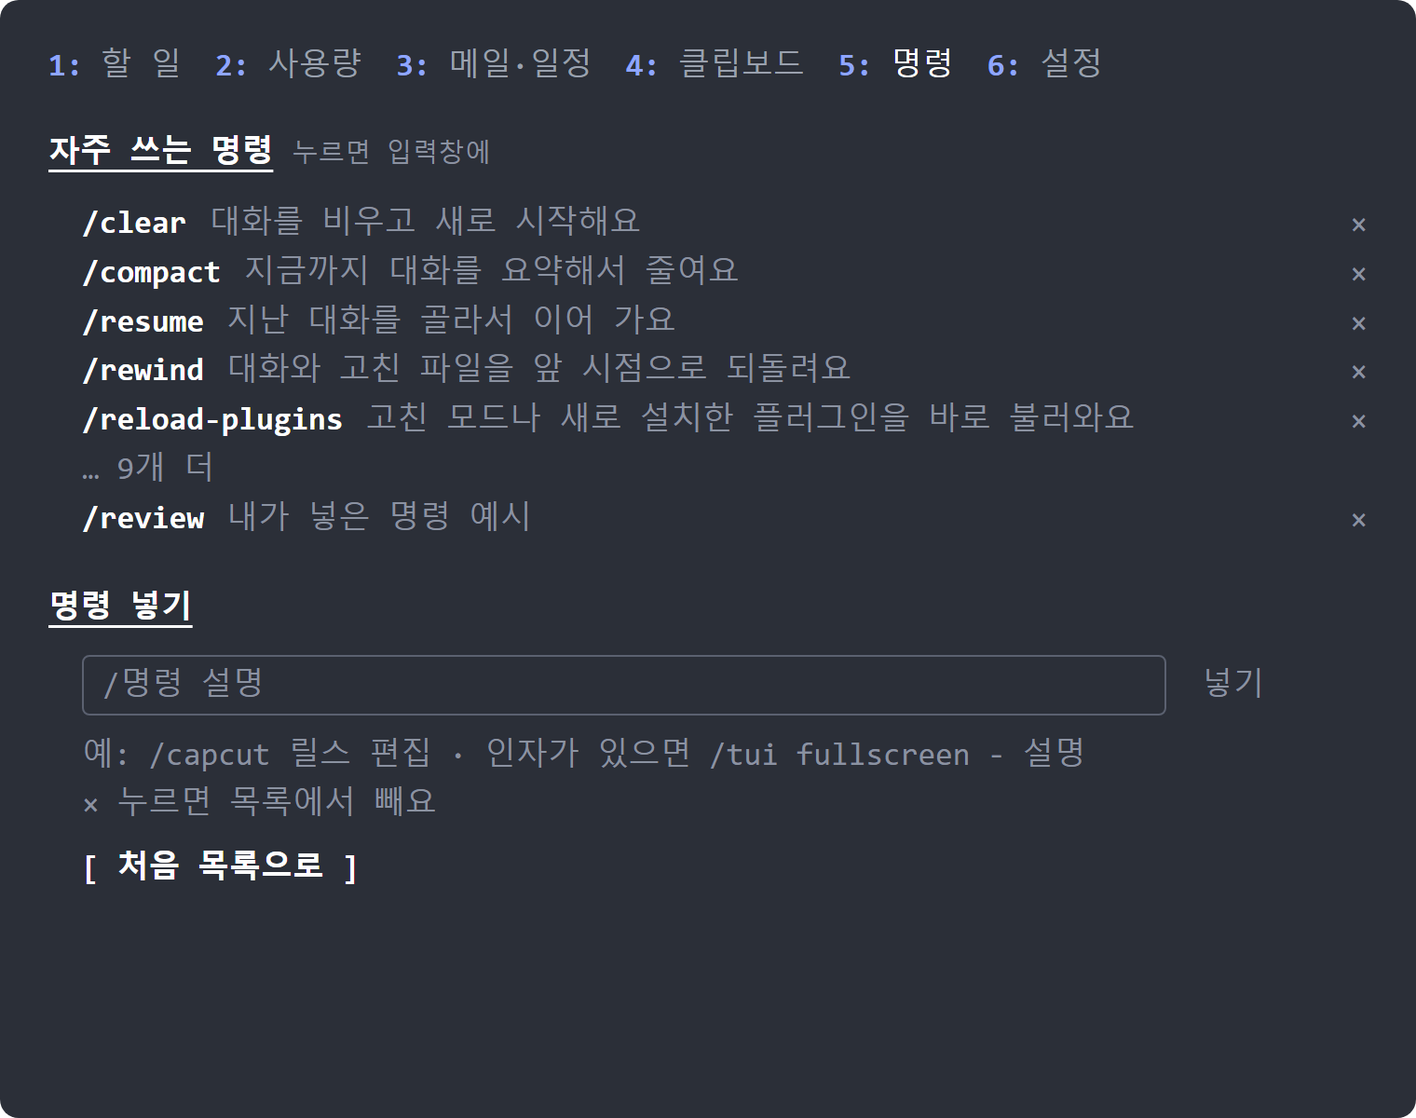
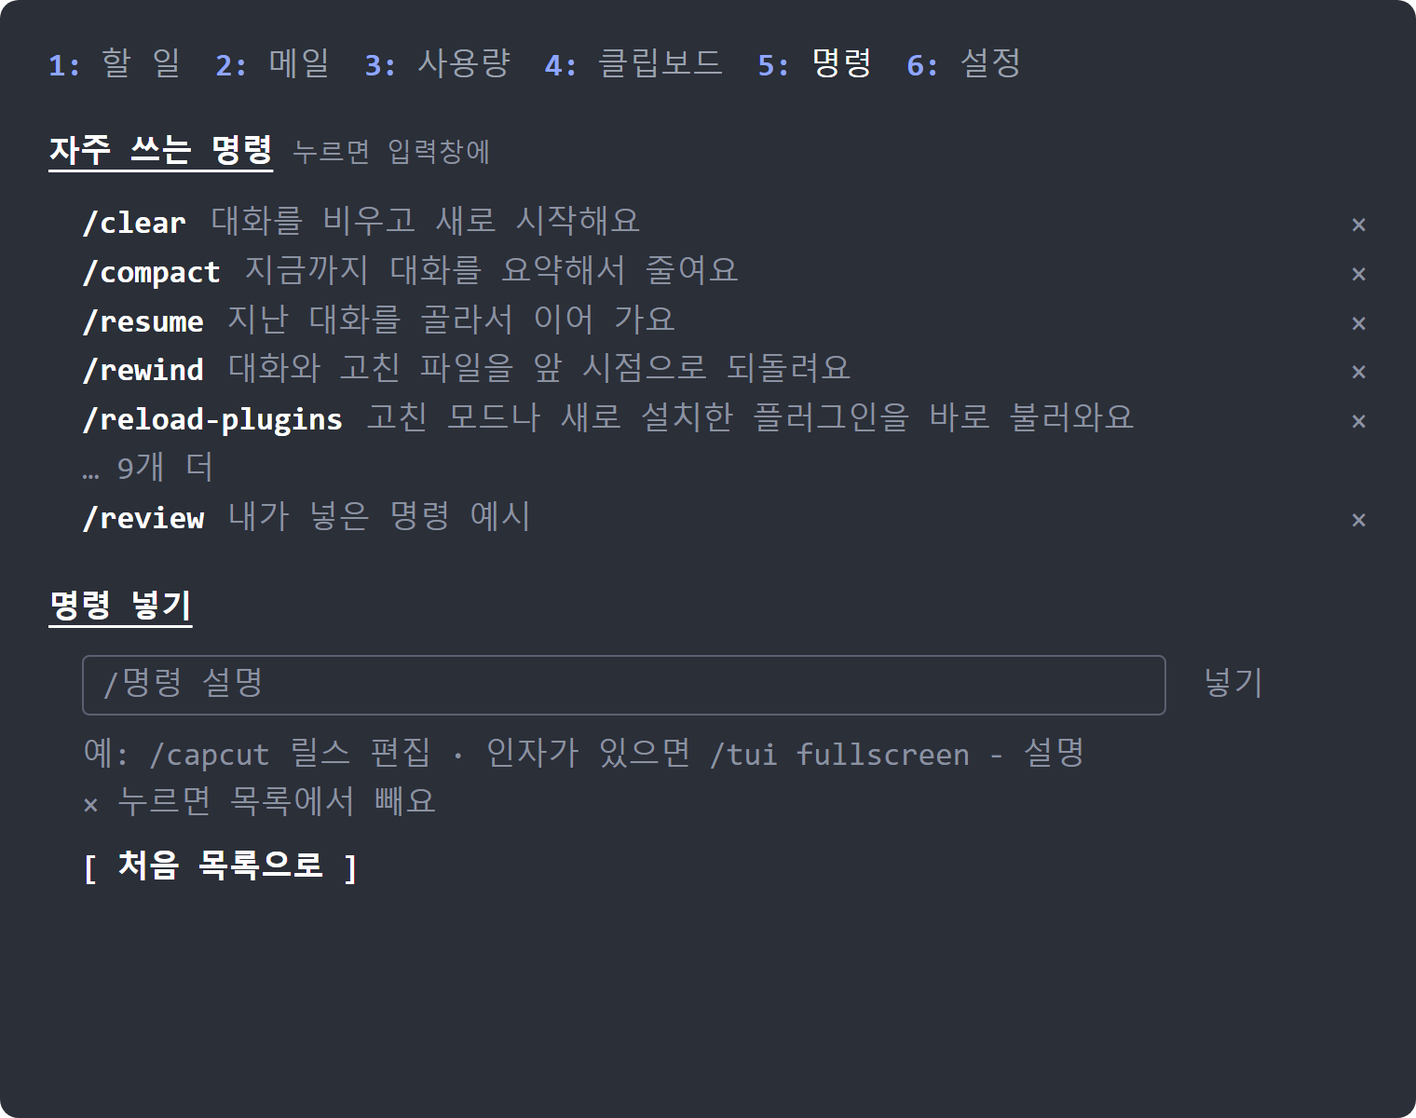
side-desk 0.5.0: 탭 순서를 할 일·메일·사용량·클립·명령·설정으로, 일정은 할 일 탭 맨 위로
- 오늘·내일 일정을 메일 탭에서 할 일 탭 맨 위로 옮김. 일정 옆 «새로고침», 할 일 탭을 보는 동안 5분마다 다시 읽음
- 메일 탭은 메일만, «새로고침»도 메일만 다시 읽음
- 탭 순서: 1 할 일 · 2 메일 · 3 사용량 · 4 클립보드 · 5 명령 · 6 설정
- README·그림을 새 순서에 맞춤

Changed region(s): [[0.1855, 0.0308, 0.773, 0.0925]]

diff --git a/plugins/side-desk/hooks/register.tsx b/plugins/side-desk/hooks/register.tsx
@@ -385,6 +385,7 @@ async function autoOpenDesk($: EngineInterface) {
     await refreshUsage($)
     updateStatus($)
     if (tab === 'clip') void watchClipboard($)
+    if (tab === 'pin') void calOnTab($)
     if (tab === 'mail') void mailOnTab($)
     if (tab === 'settings') settingsOnTab($)
     const opened = await $.ui.open({ id: PANE, title: '책상', columns: cfg.paneColumns, closeOnEscape: true })
@@ -682,24 +683,35 @@ async function loadCalendar($: EngineInterface, opts: { quiet?: boolean } = {}):
   }
 }
 
-// 탭을 열 때: 처음이거나, 실패했거나, 2분 넘게 지난 목록이면 다시 읽어요. 일정도 같은 기준이에요.
+const stale = (state: string, at: number, now: number) => state === 'idle' || state === 'failed' || (state === 'ok' && now - at > MAIL_STALE_MS)
+
+// 메일 탭을 열 때: 처음이거나, 실패했거나, 2분 넘게 지난 목록이면 다시 읽어요.
 async function mailOnTab($: EngineInterface) {
-  const now = await $.clock.now()
-  const stale = (state: string, at: number) => state === 'idle' || state === 'failed' || (state === 'ok' && now - at > MAIL_STALE_MS)
-  await Promise.all([stale(mailState, mailAt) ? loadMailList($) : undefined, stale(calState, calAt) ? loadCalendar($) : undefined])
+  if (stale(mailState, mailAt, await $.clock.now())) await loadMailList($)
+}
+
+// 할 일 탭을 열 때: 일정도 같은 기준으로 다시 읽어요.
+async function calOnTab($: EngineInterface) {
+  if (stale(calState, calAt, await $.clock.now())) await loadCalendar($)
 }
 
 // 1분마다 불려요. 옆 창이 보이고 «메일» 탭을 보고 있을 때만, 읽은 지 5분이 지났으면 목록을 다시 읽어요.
 //  · 실패한 상태(연결 안 됨·권한 없음)에서는 저절로 다시 부르지 않아요. «다시 시도»를 누르면 돼요.
 async function mailTick($: EngineInterface) {
-  if (tab !== 'mail') return
-  const now = await $.clock.now()
-  const mailDue = mailState === 'ok' && now - mailAt >= MAIL_AUTO_MS
-  const calDue = calState === 'ok' && now - calAt >= MAIL_AUTO_MS
-  if (!mailDue && !calDue) return
+  if (tab !== 'mail' || mailState !== 'ok') return
+  if ((await $.clock.now()) - mailAt < MAIL_AUTO_MS) return
   const panes = await $.ui.panes().catch(() => [])
   if (!panes.some(p => p.id === PANE && p.isShown && p.isPlaced)) return
-  await Promise.all([mailDue ? loadMailList($, { quiet: true }) : undefined, calDue ? loadCalendar($, { quiet: true }) : undefined])
+  await loadMailList($, { quiet: true })
+}
+
+// 1분마다 불려요. 옆 창이 보이고 «할 일» 탭을 보고 있을 때만, 읽은 지 5분이 지났으면 일정을 다시 읽어요.
+async function calTick($: EngineInterface) {
+  if (tab !== 'pin' || calState !== 'ok') return
+  if ((await $.clock.now()) - calAt < MAIL_AUTO_MS) return
+  const panes = await $.ui.panes().catch(() => [])
+  if (!panes.some(p => p.id === PANE && p.isShown && p.isPlaced)) return
+  await loadCalendar($, { quiet: true })
 }
 
 // 줄을 누르면 그 메일(스레드)의 본문을 불러와요. Gmail 의 «읽음» 표시는 바꾸지 않아요.
@@ -1069,7 +1081,7 @@ function para(els: Els, inner: number, text: string, opts: { indent?: number; di
   )
 }
 
-type PinHandlers = { explain: (path: string) => void }
+type PinHandlers = { explain: (path: string) => void; refreshCal: () => void }
 
 const CHANGES_SHOWN = 6
 
@@ -1101,13 +1113,14 @@ function changesBlock(els: Els, inner: number, act: PinHandlers) {
   )
 }
 
-function pinTab(els: Els, inner: number, act: PinHandlers) {
+function pinTab(els: Els, inner: number, now: number, act: PinHandlers) {
   const { Box, Text } = els
   const open = board.todos.filter(t => !t.isDone)
   const doneCount = board.todos.length - open.length
   const empty = (text: string) => <Text dimColor>{'  ' + text}</Text>
   return (
     <Box flexDirection="column" width={inner + 2} padding={1}>
+      {calendarBlock(els, inner, now, act.refreshCal)}
       {heading(els, '내가 정해야 하는 것', board.decisions.length ? String(board.decisions.length) : '')}
       {board.decisions.length === 0 && empty('없음')}
       {board.decisions.flatMap(d => d.text.split(' / ').map(part => line(els, inner, '?', part)))}
@@ -1217,9 +1230,9 @@ function usageTab(els: Els, inner: number, act: HandoffHandlers) {
   )
 }
 
-// 메일 탭 맨 위의 오늘·내일 일정. 읽기만 해요. 캘린더가 안 붙어 있으면 한 줄로 알려 주고, 메일은 그대로 보여요.
-function calendarBlock(els: Els, inner: number, now: number) {
-  const { Box, Text } = els
+// 할 일 탭 맨 위의 오늘·내일 일정. 읽기만 해요. 캘린더가 안 붙어 있으면 한 줄로 알려 줘요.
+function calendarBlock(els: Els, inner: number, now: number, refresh: () => void) {
+  const { Box, Text, Button } = els
   const today = calEvents.filter(ev => ev.day === 'today')
   const tomorrow = calEvents.filter(ev => ev.day === 'tomorrow')
   const row = (ev: CalEvent) => {
@@ -1240,7 +1253,10 @@ function calendarBlock(els: Els, inner: number, now: number) {
   }
   return (
     <Box flexDirection="column" paddingBottom={1}>
-      {heading(els, '일정', '오늘·내일')}
+      <Box flexDirection="row" justifyContent="space-between" width={inner}>
+        {heading(els, '일정', '오늘·내일')}
+        <Button key="cal-refresh" label="새로고침" hotkey="r" plain dimColor onPress={refresh} />
+      </Box>
       {calState === 'failed' &&
         para(els, inner, /permission|권한|haven't granted/i.test(calProblem ?? '') ? '캘린더를 읽는 권한을 아직 안 받았어요. 설정 탭 «점검»에서 고치는 법을 보세요.' : '캘린더를 못 읽었어요. 설정 탭 «점검»에서 연결을 확인하세요.', { dim: true })}
       {(calState === 'idle' || (calState === 'loading' && !calLoaded)) && <Text dimColor>{'  불러오는 중…'}</Text>}
@@ -1291,12 +1307,10 @@ function mailTab(els: Els, inner: number, now: number, act: MailHandlers) {
   }
 
   const head = heading(els, '메일')
-  const cal = calendarBlock(els, inner, now)
   // 연결은 돼 있는데 도구 권한을 안 받은 경우(권한 묻기를 건너뛰지 않는 세션). 이때는 다시 연결해도 소용없어요.
   if (mailState === 'failed' && /permission|권한/i.test(mailProblem ?? '')) {
     return (
       <Box flexDirection="column" width={inner + 2} padding={1}>
-        {cal}
         {head}
         {para(els, inner, 'Gmail은 연결돼 있는데, 메일을 읽는 권한을 아직 안 받았어요.', { color: 'warning' })}
         {para(els, inner, '/permissions 에서 mcp__claude_ai_Gmail__search_threads 와 mcp__claude_ai_Gmail__get_thread 를 허용한 뒤 «다시 시도»를 누르세요.', { dim: true })}
@@ -1309,7 +1323,6 @@ function mailTab(els: Els, inner: number, now: number, act: MailHandlers) {
   if (mailState === 'failed') {
     return (
       <Box flexDirection="column" width={inner + 2} padding={1}>
-        {cal}
         {head}
         {para(els, inner, 'Gmail을 불러오지 못했어요. 연결이 안 돼 있거나 로그인이 풀렸을 수 있어요.', { color: 'warning' })}
         {mailProblem !== undefined && para(els, inner, mailProblem, { dim: true })}
@@ -1327,7 +1340,6 @@ function mailTab(els: Els, inner: number, now: number, act: MailHandlers) {
   const timeWidth = 5
   return (
     <Box flexDirection="column" width={inner + 2} padding={1}>
-      {cal}
       <Box flexDirection="row" justifyContent="space-between" width={inner}>
         {head}
         <Button key="mail-refresh" label="새로고침" hotkey="r" plain dimColor onPress={act.refresh} />
@@ -1511,8 +1523,8 @@ function clipTab(els: Els, inner: number, act: ClipHandlers) {
 // 탭 이름은 넓을 때·보통·좁을 때 세 벌. 탭 줄이 한 줄에 들어가는 가장 긴 벌을 골라요.
 const TABS: { name: TabName; hotkey: string; labels: [string, string, string] }[] = [
   { name: 'pin', hotkey: '1', labels: ['할 일', '할 일', '할일'] },
-  { name: 'usage', hotkey: '2', labels: ['사용량', '사용량', '한도'] },
-  { name: 'mail', hotkey: '3', labels: ['메일·일정', '메일', '메일'] },
+  { name: 'mail', hotkey: '2', labels: ['메일', '메일', '메일'] },
+  { name: 'usage', hotkey: '3', labels: ['사용량', '사용량', '한도'] },
   { name: 'clip', hotkey: '4', labels: ['클립보드', '클립', '클립'] },
   { name: 'cmds', hotkey: '5', labels: ['명령', '명령', '명령'] },
   { name: 'settings', hotkey: '6', labels: ['설정', '설정', '설정'] },
@@ -1586,9 +1598,10 @@ export const register: Register = (on, options) => {
     $.clock.every(60_000, () => {
       void refreshUsage($).then(() => updateStatus($))
       void mailTick($)
+      void calTick($)
     })
     // 명령어는 이름이 겹치면 던지니까 맨 뒤에서, 하나씩 감싸서 등록해요.
-    await registerCommand($, { name: 'desk', description: '책상 열기: 할 일·사용량(이어가기 포함)·메일·일정·클립·명령·설정. text 는 글로 보기, check 는 처음 설정 점검', argumentHint: '[text|check]', immediate: true })
+    await registerCommand($, { name: 'desk', description: '책상 열기: 할 일(일정 포함)·메일·사용량(이어가기 포함)·클립·명령·설정. text 는 글로 보기, check 는 처음 설정 점검', argumentHint: '[text|check]', immediate: true })
     await registerCommand($, { name: 'coach', description: '프롬프트 가이드 켜기·끄기', argumentHint: '[on|off]' })
     await registerCommand($, { name: 'handoff', description: '대화를 새 대화로 넘겨요', argumentHint: '[now|ask|auto|off]', immediate: true })
     await registerCommand($, { name: 'clip', description: '클립보드의 글을 입력창에 붙여요. 이미지는 파일로 저장하고 경로를 붙여요', immediate: true })
@@ -1606,6 +1619,7 @@ export const register: Register = (on, options) => {
     updateStatus($)
     // 창을 다시 열었는데 «클립» 탭이 선택돼 있으면 바로 읽어요. «메일» 탭이면 받은편지함 제목을 읽어요.
     if (tab === 'clip') void watchClipboard($)
+    if (tab === 'pin') void calOnTab($)
     if (tab === 'mail') void mailOnTab($)
     if (tab === 'settings') settingsOnTab($)
     await $.ui.open({ id: PANE, title: '책상', columns: cfg.paneColumns, focus: true, closeOnEscape: true })
@@ -1756,6 +1770,8 @@ export const register: Register = (on, options) => {
     // 옆이 아니라 입력창 위에 열렸다면(클래식 화면) 마우스가 안 눌려요. 클릭은 풀스크린 화면에서만 와요.
     const inline = e.props.placement === 'inline'
     lastPlacement = e.props.placement
+    // 책상이 /desk 없이 그려질 때(플러그인을 다시 읽은 뒤 등)도 일정을 한 번은 읽어요. 읽기 시작하면 상태가 바로 바뀌어서 한 번만 불러요.
+    if (tab === 'pin' && calState === 'idle') void loadCalendar($)
     const unfocused = e.props.isFocused === false
     // 풀스크린이 아닌 것이 확실할 때만 닫아요. 시작 직후 너비를 못 쟀거나(모름) 풀스크린인데 잠깐 좁은 때는 그대로 둬요.
     if (inline && e.viewport?.isFullscreen === false && !openedByUser && !inlineClosed) {
@@ -1784,6 +1800,7 @@ export const register: Register = (on, options) => {
           redraw()
           // 클립 탭은 열 때 감시를 시작해요. 메일 탭은 열 때 받은편지함 제목을 읽어요.
           if (name === 'clip') void watchClipboard($)
+          if (name === 'pin') void calOnTab($)
           if (name === 'mail') void mailOnTab($)
           if (name === 'settings') settingsOnTab($)
         }}
@@ -1791,12 +1808,13 @@ export const register: Register = (on, options) => {
     )
     const body =
       tab === 'pin'
-        ? pinTab(els, inner, {
+        ? pinTab(els, inner, now, {
             explain: (path: string) => {
               void $.prompt.fill({ text: changePrompt(path) }).then(r => {
                 $.ui.toast(r.isFilled ? '입력창에 넣었어요. Esc로 입력창에 돌아가 엔터를 누르면 물어봐요.' : '입력창에 못 넣었어요.', { timeoutMs: 6000 })
               })
             },
+            refreshCal: () => void loadCalendar($),
           })
         : tab === 'usage'
           ? usageTab(els, inner, {
@@ -1814,10 +1832,7 @@ export const register: Register = (on, options) => {
                   mailView = undefined
                   redraw()
                 },
-                refresh: () => {
-                  void loadMailList($)
-                  void loadCalendar($)
-                },
+                refresh: () => void loadMailList($),
                 connect: () => connectGmail($),
                 // 입력창을 이 글로 채우기만 해요. 보내기는 엔터로 해요.
                 ask: m => {

diff --git a/plugins/side-desk/tests/extras-pane.test.tsx b/plugins/side-desk/tests/extras-pane.test.tsx
@@ -170,6 +170,10 @@ test('명령 탭: 5번 탭이고, 누르면 입력창에 넣기만 하고 실행
   const { clock, filled } = stub(on)
   await start($, clock)
   const ui = await $.ui.mount({ ...PANE, surface: 'terminal' })
+  // 할 일 · 메일 · 한도 · 클립 · 명령 · 설정 (칸반은 ft-desk 에만 있어요)
+  expect((await ui.find({ key: 'tab-mail' }))?.props.hotkey).toBe('2')
+  expect((await ui.find({ key: 'tab-usage' }))?.props.hotkey).toBe('3')
+  expect(await ui.find({ key: 'tab-kanban' })).toBeUndefined()
   expect((await ui.find({ key: 'tab-cmds' }))?.props.hotkey).toBe('5')
   expect((await ui.find({ key: 'tab-settings' }))?.props.hotkey).toBe('6')
   await ui.press({ key: 'tab-cmds' })

diff --git a/README.md b/README.md
@@ -37,17 +37,17 @@ claude plugin install side-desk@side-desk
 
 > 아래 그림은 설명용 예시 화면이에요. 숫자와 할 일은 예시고, 글자 배치는 실제 화면과 같아요.
 
-**할 일** — Claude가 쌓은 할 일, 내 답을 기다리는 질문, 이번 대화에서 고친 파일
+**할 일** — 오늘·내일 일정, Claude가 쌓은 할 일, 내 답을 기다리는 질문, 이번 대화에서 고친 파일 (일정은 예시예요)
 
 ![할 일 탭](docs/desk-todo.png)
+
+**메일** — 받은편지함 제목만 보여 주고, 누르면 본문을 읽어요 (메일 제목은 예시예요)
+
+![메일 탭](docs/desk-mail.png)
 
 **사용량** — 사용 한도와 대화 길이, 그리고 새 대화로 이어가기
 
 ![사용량 탭](docs/desk-usage.png)
-
-**메일·일정** — 오늘·내일 일정, 그 아래 받은편지함 제목. 누르면 본문을 읽어요 (일정과 메일 제목은 예시예요)
-
-![메일 탭](docs/desk-mail.png)
 
 **명령** — 자주 쓰는 명령. 누르면 입력창에 들어가요. `×`로 빼고, 아래 칸에 써서 넣어요
 
@@ -61,14 +61,14 @@ claude plugin install side-desk@side-desk
 
 | 탭 | 하는 일 |
 |---|---|
-| **1 할 일** | Claude가 쌓아 둔 **이번 대화 할 일**, 그리고 **내가 정해야 하는 것**을 고정해 둬요. 대화가 길어져도 안 밀려나요. 아래에는 **이번 대화에서 Claude가 고친 파일**이 최근 것부터 보여요. `>`를 누르면 «이 파일 왜 바꿨는지 설명해 줘»를 입력창에 채워요. |
-| **2 사용량** | 5시간·7일 **사용 한도**, 초기화까지 남은 시간, **대화 길이**, 이 대화의 비용. 한도가 80%를 넘으면 알려 줘요. 대화가 길어지면 «이어서 할 일»을 메모로 쓰고 **새 대화로 넘길지 물어봐요.** 새 대화는 그 메모를 읽고 바로 이어서 해요. |
-| **3 메일·일정** | 맨 위에 **구글 캘린더의 오늘·내일 일정**을 보여 줘요. 그 아래는 Claude Code에 연결된 **Gmail** 받은편지함의 최근 20개를 **제목만** 보여 줘요. 줄을 누르면 그때 본문을 불러와요. `>`를 누르면 «이 메일을 읽고 내가 할 일을 찾아 줘»라는 글을 입력창에 채워요(보내기는 엔터로 해요). `↗`는 브라우저의 Gmail로 열어요. **둘 다 읽기만 해요.** |
+| **1 할 일** | 맨 위에 **구글 캘린더의 오늘·내일 일정**을 보여 줘요(읽기만 해요). 그 아래 Claude가 쌓아 둔 **이번 대화 할 일**, 그리고 **내가 정해야 하는 것**을 고정해 둬요. 대화가 길어져도 안 밀려나요. 아래에는 **이번 대화에서 Claude가 고친 파일**이 최근 것부터 보여요. `>`를 누르면 «이 파일 왜 바꿨는지 설명해 줘»를 입력창에 채워요. |
+| **2 메일** | Claude Code에 연결된 **Gmail** 받은편지함의 최근 20개를 **제목만** 보여 줘요. 줄을 누르면 그때 본문을 불러와요. `>`를 누르면 «이 메일을 읽고 내가 할 일을 찾아 줘»라는 글을 입력창에 채워요(보내기는 엔터로 해요). `↗`는 브라우저의 Gmail로 열어요. **읽기만 해요.** |
+| **3 사용량** | 5시간·7일 **사용 한도**, 초기화까지 남은 시간, **대화 길이**, 이 대화의 비용. 한도가 80%를 넘으면 알려 줘요. 대화가 길어지면 «이어서 할 일»을 메모로 쓰고 **새 대화로 넘길지 물어봐요.** 새 대화는 그 메모를 읽고 바로 이어서 해요. |
 | **4 클립보드** | 최근에 복사한 글·이미지 목록(윈도우 Win+V 기록). 줄을 누르면 입력창에 들어가요. |
 | **5 명령** | `/clear`·`/compact`·`/resume`·`/mcp` 같은 **자주 쓰는 명령**을 쉬운 말로 풀어 뒀어요. 누르면 입력창에 넣기만 하고, 실행은 엔터로 해요. 줄 끝 `×`로 빼고, 아래 칸에 `/명령 설명`을 쓰고 엔터를 누르면 넣어요(예: `/capcut 릴스 편집`, 인자가 있으면 `/tui fullscreen - 설명`). «처음 목록으로»를 누르면 되돌려요. |
 | **6 설정** | 보내기 전 확인 · 질문·승인 알림 · 작업 끝 알림 · 프롬프트 가이드를 켜고 꺼요. **처음 설정 점검**(✓/✗와 고치는 법)과 «알림 시험»이 있어요. |
 
-옆 창이 좁으면 탭 이름이 «할일 · 한도 · 메일 · 클립 · 명령 · 설정»으로 줄고(넓으면 «메일·일정»), 그래도 넘치면 두 줄로 나뉘어요. 긴 제목은 `…`로 자르고, 여러 줄로 넘어가는 설명은 같은 들여쓰기로 이어져요.
+옆 창이 좁으면 탭 이름이 «할일 · 메일 · 한도 · 클립 · 명령 · 설정»으로 줄고, 그래도 넘치면 두 줄로 나뉘어요. 긴 제목은 `…`로 자르고, 여러 줄로 넘어가는 설명은 같은 들여쓰기로 이어져요.
 
 입력창에서 바로 쓰는 명령도 있어요.
 
@@ -87,7 +87,7 @@ claude plugin install side-desk@side-desk
 - **파일을 써요.** 대화를 이어갈 때 쓰는 메모와, 클립보드 이미지를 저장한 파일이에요. 모두 `내 폴더/.claude/state/side-desk/` 아래에 있고, 이미지는 하루 뒤 지워져요.
 - **고친 파일 목록을 남겨요.** Claude가 `Edit`·`Write`·`NotebookEdit`로 파일을 고칠 때마다 그 경로만 적어 둬요(파일 내용은 안 적어요). Claude Code가 모드에 주는 저장 공간에 대화마다 따로 두고, 최근 30개 대화만 남겨요. 셸 명령으로 바꾼 파일은 안 잡혀요.
 - **서버가 없고, 내 글을 밖으로 보내지 않아요.** 이 모드가 외부 주소로 직접 요청하는 일은 없어요.
-- **메일 탭은 Gmail·구글 캘린더 커넥터로 읽기만 해요.** Claude Code에 이미 연결해 둔 «claude.ai Gmail»과 «claude.ai Google Calendar» 커넥터를 거쳐요. 메일 탭을 열 때, «새로고침»을 누를 때, 메일 탭을 보고 있는 동안 5분마다 받은편지함 제목과 오늘·내일 일정을 읽고, 줄을 누를 때만 메일 본문을 읽어요. 창이 닫혀 있거나 다른 탭을 보고 있으면 읽지 않아요. 읽음 표시·라벨·답장·삭제·일정 변경은 하지 않고, 읽은 메일과 일정을 따로 저장하지도 않아요.
+- **메일과 일정은 Gmail·구글 캘린더 커넥터로 읽기만 해요.** Claude Code에 이미 연결해 둔 «claude.ai Gmail»과 «claude.ai Google Calendar» 커넥터를 거쳐요. 받은편지함 제목은 메일 탭을 열 때·«새로고침»을 누를 때·메일 탭을 보는 동안 5분마다, 오늘·내일 일정은 할 일 탭을 열 때·일정 «새로고침»을 누를 때·할 일 탭을 보는 동안 5분마다 읽어요. 메일 본문은 줄을 누를 때만 읽어요. 창이 닫혀 있거나 다른 탭을 보고 있으면 읽지 않아요. 읽음 표시·라벨·답장·삭제·일정 변경은 하지 않고, 읽은 메일과 일정을 따로 저장하지도 않아요.
 - **설정 탭의 점검은 커넥터를 한 번씩 불러 봐요.** 설정 탭을 처음 열 때와 «다시 점검»을 누를 때 Gmail과 캘린더에 가장 작은 요청을 하나씩 보내서 연결됐는지만 봐요.
 - **알림은 스위치가 둘이에요.** «질문·승인 알림»(기본 켜짐)은 Claude가 질문할 때, «이 도구를 써도 될까요?» 승인 창이나 보내기 전 확인이 떴을 때 알려요. «작업 끝 알림»(기본 꺼짐)은 오래 걸린 일이 끝났을 때 알려요. 윈도우는 PowerShell로 윈도우 알림을, 맥·리눅스는 Claude Code가 터미널로 보내는 알림을 써요.
 - **«보내기 전 확인»은 이래요.** Claude가 메일 보내기, 광고 변경, 일정 초대, 드라이브 공유 같은 일을 하려 하면 받는 사람·제목·본문을 보여 주고 «보낼까요?»를 물어요. 읽기·검색·초안 저장은 묻지 않아요.
@@ -109,7 +109,7 @@ claude plugin install side-desk@side-desk
 
 **클립보드 탭이 «읽는 중…»에서 멈춰요.** 설정 > 시스템 > 클립보드에서 «클립보드 기록»을 켜세요. 꺼져 있으면 지금 클립보드 한 개만 보여요. 그래도 안 되면 탭 아래에 이유가 한 줄 나와요.
 
-**새 대화로 넘기는 게 싫어요.** 2 사용량 탭의 «새 대화로 이어가기»에서 «바꾸기»를 눌러 «끔»을 고르세요.
+**새 대화로 넘기는 게 싫어요.** 3 사용량 탭의 «새 대화로 이어가기»에서 «바꾸기»를 눌러 «끔»을 고르세요.
 
 **메일 탭에 «연결하기»만 보여요.** claude.ai 설정 > 커넥터에서 Gmail을 먼저 추가하세요. 그다음 «연결하기»를 누르면 `/mcp` 창이 열려요. «claude.ai Gmail»을 골라 로그인하고 «다시 시도»를 누르세요. «메일을 읽는 권한을 아직 안 받았어요»가 나오면 `/permissions`에서 `mcp__claude_ai_Gmail__search_threads`와 `mcp__claude_ai_Gmail__get_thread`를 허용하세요.
 
